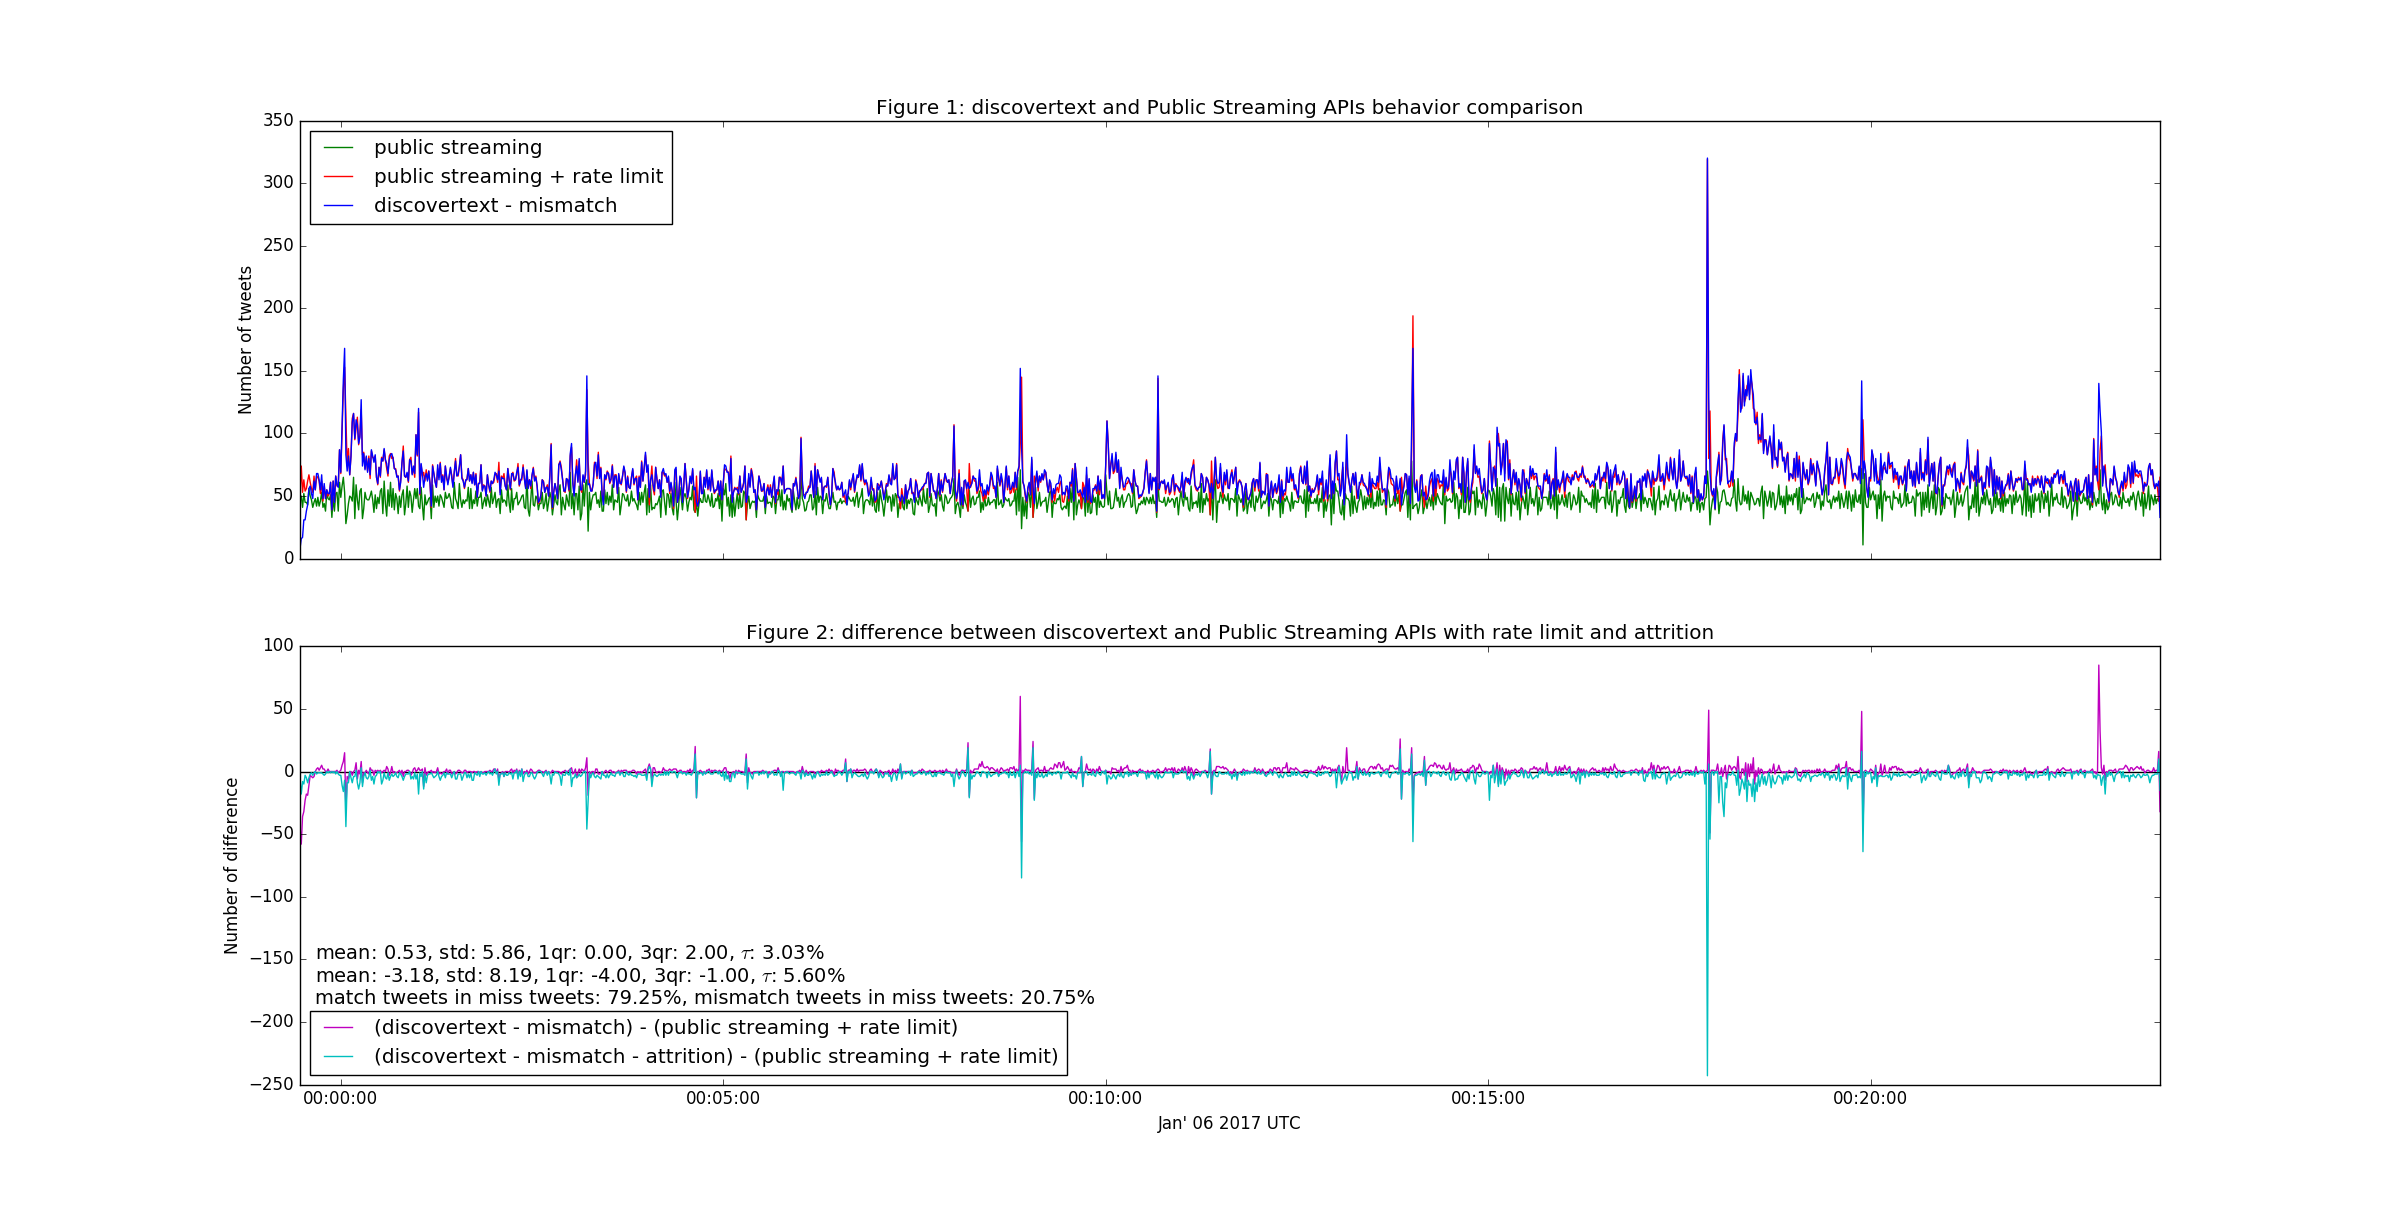
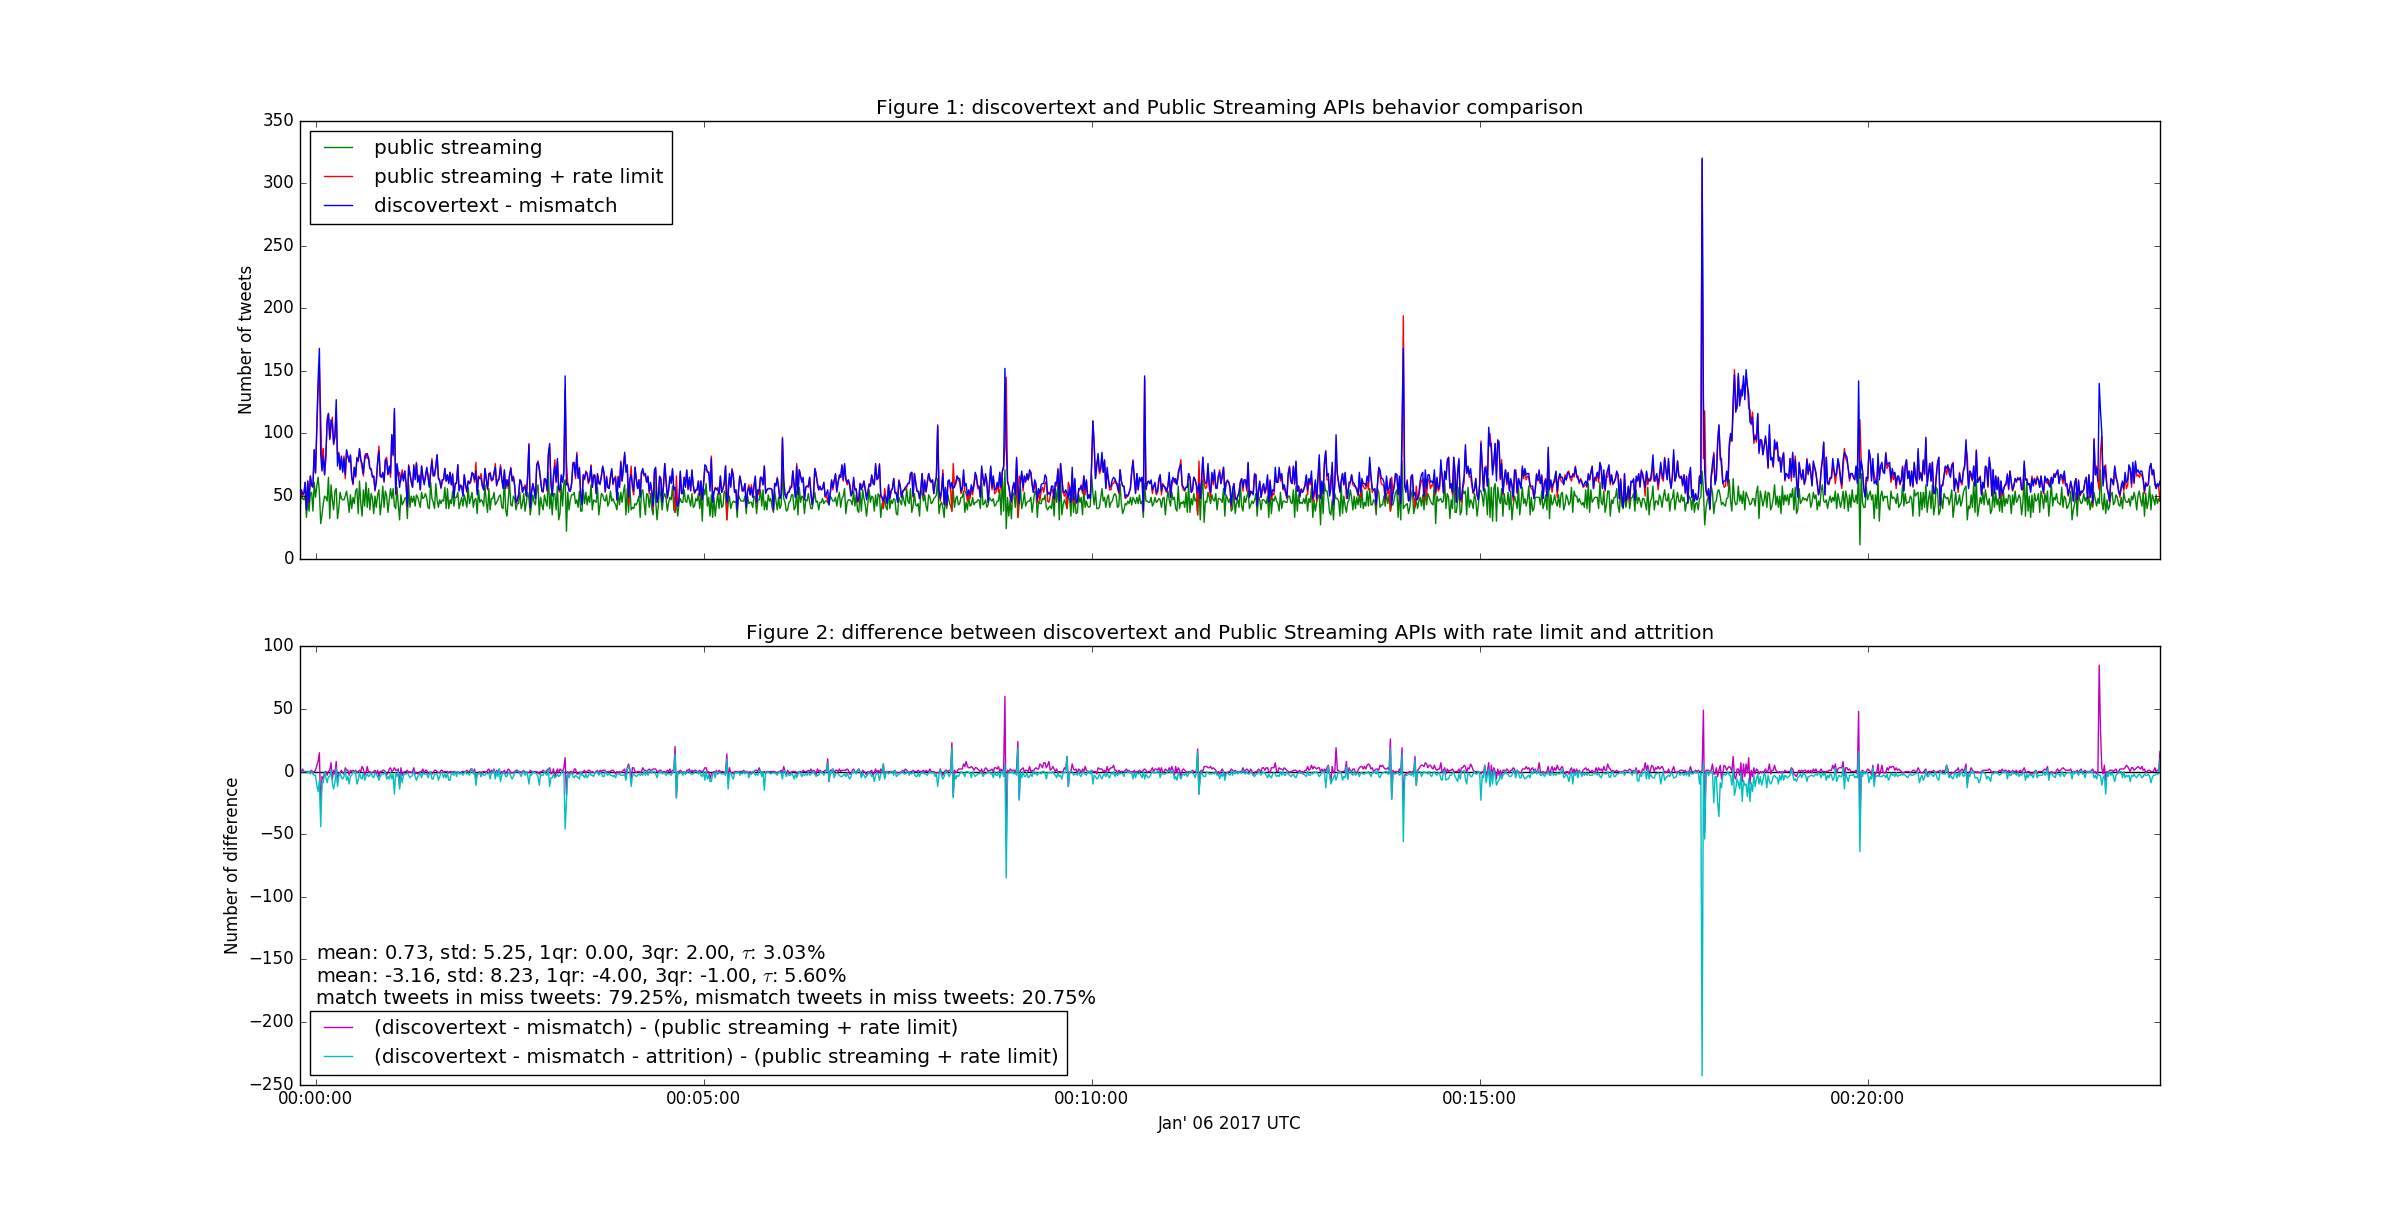
[dt_measurer] update plot for discovertext and filter stream behavior comparison

diff --git a/plot/plot_cmp_discovertext_pstream.py b/plot/plot_cmp_discovertext_pstream.py
@@ -105,6 +105,7 @@ if __name__ == '__main__':
                 dt_dict[dt_obj].append(id)
 
     x_axis1 = sorted(dt_dict.keys())
+    x_axis1 = x_axis1[20:-1]
     y_axis1 = [len(set(dt_dict[d])) for d in x_axis1]
     # ax1.plot_date(x_axis1, y_axis1, '-', c='b', ms=1, label='discovertext')
 
@@ -179,20 +180,20 @@ if __name__ == '__main__':
     distortions = []
     for benchmark in benchmarks:
         ret = []
-        for k in xrange(20, len(x_axis1) - 1):
+        for k in xrange(len(x_axis1)):
             ret.append(100.0 * abs(y_axis3[k] - benchmark[k]) / benchmark[k])
         distortions.append(np.mean(ret))
 
     ax2.plot((x_axis1[0], x_axis1[-1]), (0, 0), 'k-')
     ax2.plot_date(x_axis1, upper_bound, '-', c='m', ms=1, label='(discovertext - mismatch) - (public streaming + rate limit)')
-    ax2.text(datetime(2017, 1, 5, 23, 59, 40), -150, r'mean: {0:2.2f}, std: {1:2.2f}, 1qr: {2:2.2f}, 3qr: {3:2.2f}, $\tau$: {4:2.2f}%'
+    ax2.text(datetime(2017, 1, 6, 0, 0, 0), -150, r'mean: {0:2.2f}, std: {1:2.2f}, 1qr: {2:2.2f}, 3qr: {3:2.2f}, $\tau$: {4:2.2f}%'
              .format(np.mean(upper_bound), np.std(upper_bound), np.percentile(upper_bound, 25), np.percentile(upper_bound, 75), distortions[0]), fontsize=14)
 
     ax2.plot_date(x_axis1, lower_bound, '-', c='c', ms=1, label='(discovertext - mismatch - attrition) - (public streaming + rate limit)')
-    ax2.text(datetime(2017, 1, 5, 23, 59, 40), -168, r'mean: {0:2.2f}, std: {1:2.2f}, 1qr: {2:2.2f}, 3qr: {3:2.2f}, $\tau$: {4:2.2f}%'
+    ax2.text(datetime(2017, 1, 6, 0, 0, 0), -168, r'mean: {0:2.2f}, std: {1:2.2f}, 1qr: {2:2.2f}, 3qr: {3:2.2f}, $\tau$: {4:2.2f}%'
              .format(np.mean(lower_bound), np.std(lower_bound), np.percentile(lower_bound, 25), np.percentile(lower_bound, 75), distortions[1]), fontsize=14)
 
-    ax2.text(datetime(2017, 1, 5, 23, 59, 40), -186, r'match tweets in miss tweets: {0:2.2f}%, mismatch tweets in miss tweets: {1:2.2f}%'
+    ax2.text(datetime(2017, 1, 6, 0, 0, 0), -186, r'match tweets in miss tweets: {0:2.2f}%, mismatch tweets in miss tweets: {1:2.2f}%'
              .format(100.0*len(match_tweets)/(len(match_tweets)+len(mismatch_tweets)), 100.0*len(mismatch_tweets)/(len(match_tweets)+len(mismatch_tweets))), fontsize=14)
 
     ax1.set_ylabel('Number of tweets')
